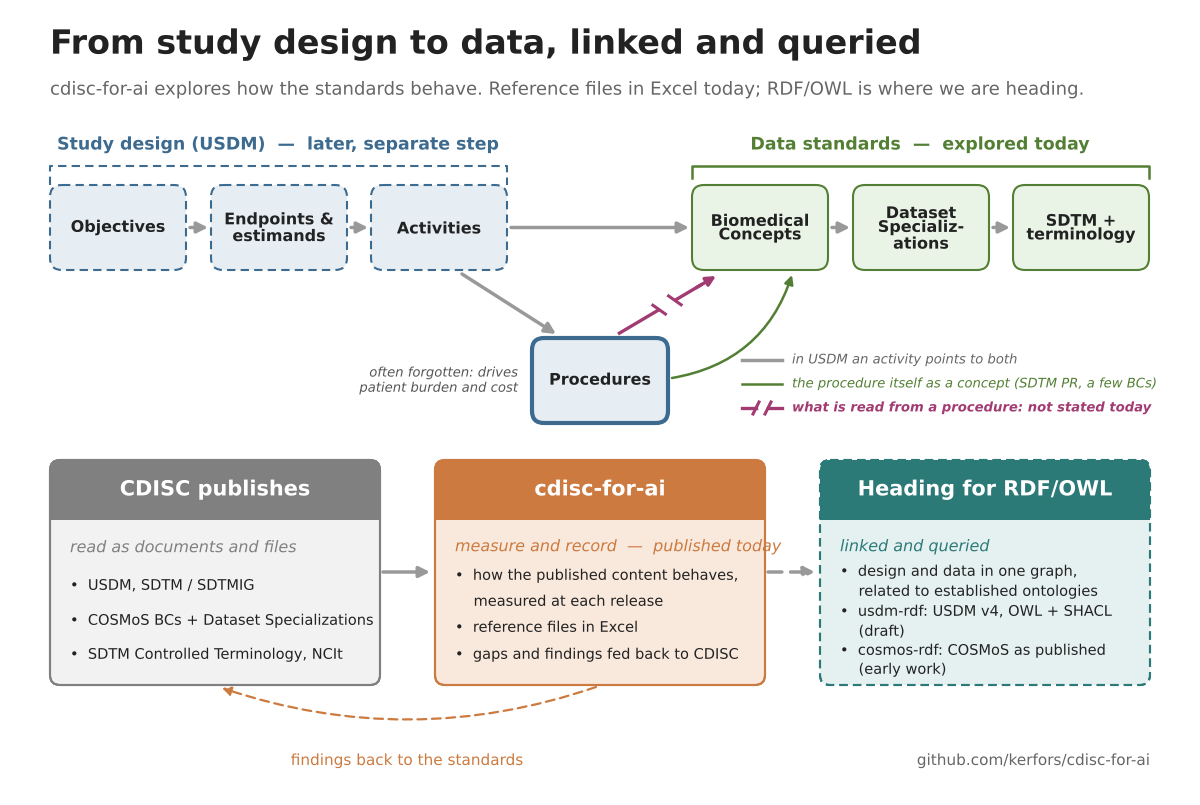
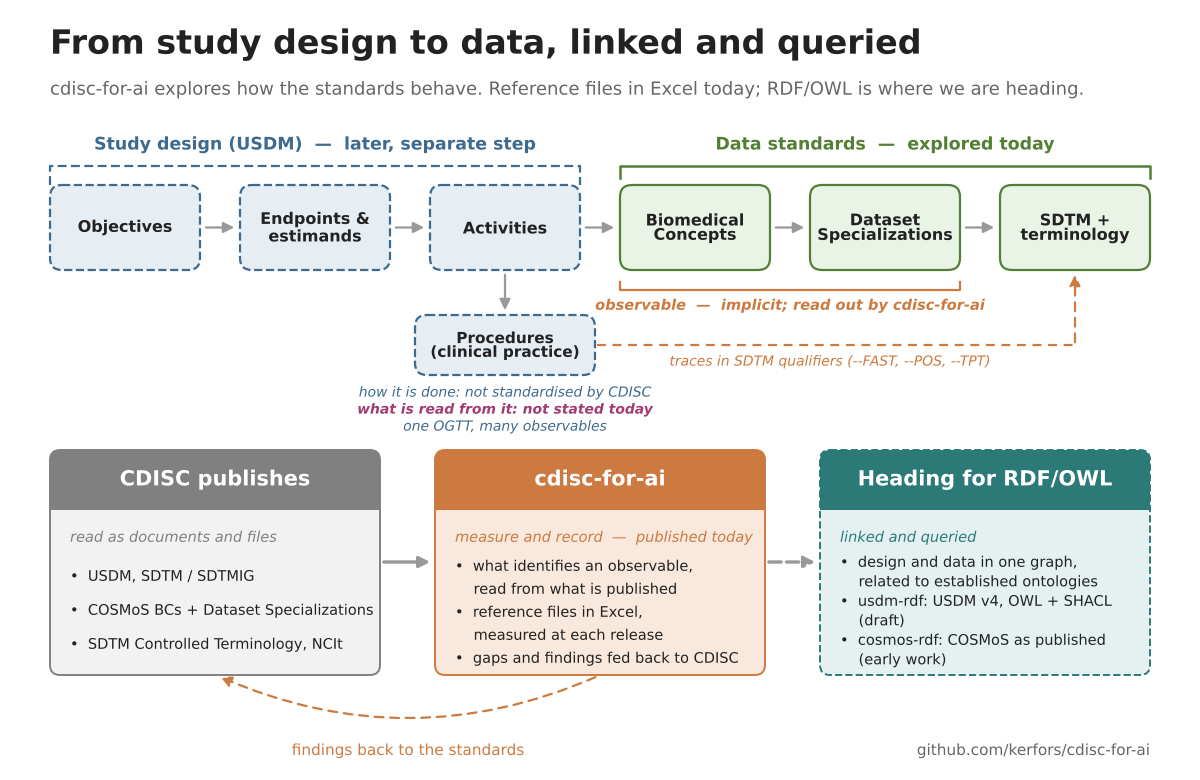
Design-to-data picture: observable named, procedures as a second axis, practice traces in SDTM qualifiers

diff --git a/docs/images/cdisc_for_ai_design_to_data.py b/docs/images/cdisc_for_ai_design_to_data.py
@@ -1,110 +1,136 @@
 # Draws docs/images/cdisc_for_ai_design_to_data.png (the picture on the Pages front page and in README.md).
-# Run: python3 cdisc_for_ai_design_to_data.py   (needs matplotlib and numpy)
+# Run: python3 cdisc_for_ai_design_to_data.py   (needs matplotlib)
 
+import os
 import matplotlib
 matplotlib.use("Agg")
 import matplotlib.pyplot as plt
-plt.rcParams["font.family"]="DejaVu Sans"
-from matplotlib.patches import FancyBboxPatch, FancyArrowPatch, Rectangle
+plt.rcParams["font.family"] = "DejaVu Sans"
+from matplotlib.patches import FancyBboxPatch, FancyArrowPatch
 
-W, H, S = 1200, 805, 115          # S = extra height added below the top row
-fig = plt.figure(figsize=(W/100, H/100), dpi=100)
-ax = fig.add_axes([0, 0, 1, 1]); ax.set_xlim(0, W); ax.set_ylim(H, 0); ax.axis("off")
+W, H = 1200, 780
+fig = plt.figure(figsize=(W / 100, H / 100), dpi=100)
+ax = fig.add_axes([0, 0, 1, 1])
+ax.set_xlim(0, W)
+ax.set_ylim(H, 0)
+ax.axis("off")
+fig.patch.set_facecolor("white")
 
-BLUE, BLUE_F = "#3d6a8f", "#e6edf3"
-ORANGE, ORANGE_F = "#cc7a3f", "#f9e8dc"
-GREEN, GREEN_F = "#527f33", "#eaf4e6"
-GREY, DARK = "#999999", "#222222"
+DARK = "#222222"
+GREY = "#666666"
+BLUE, BLUE_BG = "#3d6a8f", "#e6edf3"
+ORANGE, ORANGE_BG = "#cc7a3f", "#f9e8dc"
+GREEN, GREEN_BG = "#527f33", "#eaf4e6"
+TEAL, TEAL_BG = "#2b7a78", "#e4f1f0"
+LGREY, LGREY_BG = "#808080", "#f2f2f2"
+PLUM = "#a23b72"
+ARROW = "#999999"
 
-def box(x, y, w, h, fc, ec, lw=1.5, ls="-", r=12):
+
+def box(x, y, w, h, fc, ec, lw=1.6, ls="-", r=10):
     ax.add_patch(FancyBboxPatch((x, y), w, h, boxstyle=f"round,pad=0,rounding_size={r}",
                                 fc=fc, ec=ec, lw=lw, ls=ls))
-def arrow(p, q, color=GREY, lw=2.5, ls="-", rad=0.0, ms=16):
-    ax.add_patch(FancyArrowPatch(p, q, arrowstyle="-|>", mutation_scale=ms, color=color,
-                                 lw=lw, ls=ls, connectionstyle=f"arc3,rad={rad}",
-                                 shrinkA=0, shrinkB=0))
 
-ax.text(50, 45, "From study design to data, linked and queried", fontsize=24, fontweight="bold", color=DARK, va="center")
-ax.text(50, 90, "cdisc-for-ai explores how the standards behave. Reference files in Excel today; RDF/OWL is where we are heading.",
-        fontsize=13, color="#666666", va="center")
 
-# headings and brackets
-ax.text(278, 145, "Study design (USDM)  \u2014  later, separate step", fontsize=12.5, fontweight="bold", color=BLUE, ha="center", va="center")
-ax.plot([50, 50, 507, 507], [185, 166, 166, 185], color=BLUE, lw=1.5, ls=(0, (4, 2.5)))
-ax.text(920, 145, "Data standards  \u2014  explored today", fontsize=12.5, fontweight="bold", color=GREEN, ha="center", va="center")
-ax.plot([692, 692, 1149, 1149], [178, 166, 166, 178], color=GREEN, lw=1.8)
+def arrow(x1, y1, x2, y2, color=ARROW, ls="-", lw=2.2):
+    ax.add_patch(FancyArrowPatch((x1, y1), (x2, y2), arrowstyle="-|>", mutation_scale=16,
+                                 color=color, lw=lw, ls=ls))
 
-PLUM = "#a23b72"
-y0, bw, bh = 185, 136, 85
-row = [(50, "Objectives", 0), (211, "Endpoints &\nestimands", 0), (371, "Activities", 0),
-       (692, "Biomedical\nConcepts", 1), (853, "Dataset\nSpecializ-\nations", 1), (1013, "SDTM +\nterminology", 1)]
-for x, lab, g in row:
-    if g: box(x, y0, bw, bh, GREEN_F, GREEN)
-    else: box(x, y0, bw, bh, BLUE_F, BLUE, ls=(0, (4, 2.5)))
-    ax.text(x + bw/2, y0 + bh/2, lab, fontsize=11.5, fontweight="bold", color=DARK, ha="center", va="center", linespacing=0.95)
-ym = y0 + bh/2
-for x0, x1 in [(186, 211), (347, 371), (507, 692), (828, 853), (989, 1013)]:
-    arrow((x0 + 4, ym), (x1 - 3, ym))
 
-# third corner of the triangle: Procedures (a USDM class), below the gap
-px, py = 532, 338
-box(px, py, bw, bh, BLUE_F, BLUE, lw=3)
-ax.text(px + bw/2, py + bh/2, "Procedures", fontsize=11.5, fontweight="bold", color=DARK, ha="center", va="center")
-ax.text(px - 14, py + bh/2, "often forgotten: drives\npatient burden and cost", fontsize=9.5, fontstyle="italic",
-        color="#555555", ha="right", va="center", linespacing=1.15)
-yb = y0 + bh
-arrow((462, yb + 4), (556, py - 4))                                          # Activities -> Procedures (USDM)
-arrow((px + bw + 4, py + 40), (792, yb + 5), color=GREEN, lw=1.8, rad=0.3, ms=13)   # the procedure itself as a concept
-import numpy as np
-P0, P2 = np.array([618.0, py - 4]), np.array([716.0, yb + 6])                 # read from: not stated
-d = (P2 - P0)/np.linalg.norm(P2 - P0); n = np.array([-d[1], d[0]]); L = np.linalg.norm(P2 - P0)
-for t0, t1 in [(0, 0.42), (0.58, 0.86)]:
-    q0, q1 = P0 + d*L*t0, P0 + d*L*t1; ax.plot([q0[0], q1[0]], [q0[1], q1[1]], color=PLUM, lw=2.4, solid_capstyle="butt")
-for t in (0.42, 0.58):
-    p = P0 + d*L*t; v = 7*(n + 0.45*d); ax.plot([p[0]-v[0], p[0]+v[0]], [p[1]-v[1], p[1]+v[1]], color=PLUM, lw=2.2)
-arrow(tuple(P0 + d*L*0.8), tuple(P2), color=PLUM, lw=2.4, ms=14)
+# Title and subtitle
+ax.text(50, 45, "From study design to data, linked and queried", fontsize=24, weight="bold",
+        color=DARK, va="center")
+ax.text(50, 90, "cdisc-for-ai explores how the standards behave. Reference files in Excel today; "
+        "RDF/OWL is where we are heading.", fontsize=13, color=GREY, va="center")
 
-# legend for the three kinds of link
-lx, ly = 742, py + 22
-ax.plot([lx, lx + 40], [ly, ly], color=GREY, lw=2.5)
-ax.text(lx + 50, ly, "in USDM an activity points to both", fontsize=9.5, fontstyle="italic", color="#666666", va="center")
-ax.plot([lx, lx + 40], [ly + 24, ly + 24], color=GREEN, lw=1.8)
-ax.text(lx + 50, ly + 24, "the procedure itself as a concept (SDTM PR, a few BCs)", fontsize=9.5, fontstyle="italic", color=GREEN, va="center")
-ax.plot([lx, lx + 14], [ly + 48, ly + 48], color=PLUM, lw=2.4); ax.plot([lx + 26, lx + 40], [ly + 48, ly + 48], color=PLUM, lw=2.4)
-for xx in (lx + 14, lx + 26): ax.plot([xx - 3, xx + 3], [ly + 54, ly + 42], color=PLUM, lw=2.2)
-ax.text(lx + 50, ly + 48, "what is read from a procedure: not stated today", fontsize=9.5, fontweight="bold",
-        fontstyle="italic", color=PLUM, va="center")
+# Top row
+ax.text(315, 145, "Study design (USDM)  —  later, separate step", fontsize=12.5, weight="bold",
+        color=BLUE, ha="center", va="center")
+ax.plot([50, 50, 580, 580], [185, 166, 166, 185], color=BLUE, lw=1.6, ls=(0, (4, 2)))
+ax.text(885, 145, "Data standards  —  explored today", fontsize=12.5, weight="bold",
+        color=GREEN, ha="center", va="center")
+ax.plot([620, 620, 1150, 1150], [178, 166, 166, 178], color=GREEN, lw=1.8)
 
-# lower panels (shifted down by S)
-def panel(x, title, head, body_fc, ec, ls="-"):
-    y = 345 + S
-    box(x, y, 330, 225, body_fc, ec, ls=ls, r=10)
-    ax.add_patch(FancyBboxPatch((x, y), 330, 60, boxstyle="round,pad=0,rounding_size=10", fc=head, ec=head, lw=0))
-    ax.add_patch(Rectangle((x, y + 30), 330, 30, fc=head, ec=head, lw=0))
-    box(x, y, 330, 225, "none", ec, ls=ls, r=10)
-    ax.text(x + 165, y + 30, title, fontsize=15, fontweight="bold", color="white", ha="center", va="center")
-panel(50, "CDISC publishes", "#808080", "#f2f2f2", "#808080")
-panel(435, "cdisc-for-ai", ORANGE, ORANGE_F, ORANGE)
-TEAL, TEAL_F = "#2b7a78", "#e4f1f0"
-panel(820, "Heading for RDF/OWL", TEAL, TEAL_F, TEAL, ls=(0, (4, 2.5)))
+steps = [
+    ("Objectives", BLUE_BG, BLUE, "--", 1.6),
+    ("Endpoints &\nestimands", BLUE_BG, BLUE, "--", 1.6),
+    ("Activities", BLUE_BG, BLUE, "--", 1.6),
+    ("Biomedical\nConcepts", GREEN_BG, GREEN, "-", 1.6),
+    ("Dataset\nSpecializations", GREEN_BG, GREEN, "-", 1.6),
+    ("SDTM +\nterminology", GREEN_BG, GREEN, "-", 1.6),
+]
+x0, bw, gap, by, bh = 50, 150, 40, 185, 85
+for i, (label, fc, ec, ls, lw) in enumerate(steps):
+    x = x0 + i * (bw + gap)
+    box(x, by, bw, bh, fc, ec, lw=lw, ls=ls, r=12)
+    ax.text(x + bw / 2, by + bh / 2, label, fontsize=11.5, weight="bold", color=DARK,
+            ha="center", va="center", linespacing=1.0)
+    if i < len(steps) - 1:
+        arrow(x + bw + 3, by + bh / 2, x + bw + gap - 3, by + bh / 2, lw=1.6)
 
-def lines(x, y, head, hc, items, dy):
-    ax.text(x, y + S, head, fontsize=11.5, fontstyle="italic", color=hc, va="center")
-    for k, t in enumerate(items):
-        ax.text(x, y + S + dy[k], t, fontsize=10.5, color=DARK, va="center")
-lines(70, 433, "read as documents and files", "#808080",
-      ["•  USDM, SDTM / SDTMIG", "•  COSMoS BCs + Dataset Specializations", "•  SDTM Controlled Terminology, NCIt"], [38, 73, 107])
-lines(455, 432, "measure and record  —  published today", ORANGE,
-      ["•  how the published content behaves,", "    measured at each release", "•  reference files in Excel", "•  gaps and findings fed back to CDISC"], [29, 55, 81, 108])
-lines(840, 432, "linked and queried", TEAL,
-      ["•  design and data in one graph,", "    related to established ontologies", "•  usdm-rdf: USDM v4, OWL + SHACL", "    (draft)",
-       "•  cosmos-rdf: COSMoS as published", "    (early work)"], [25, 45, 65, 85, 104, 123])
+# Observable: implicit in BC + DSS, read out by cdisc-for-ai
+ax.plot([620, 620, 960, 960], [282, 290, 290, 282], color=ORANGE, lw=1.6)
+ax.text(790, 306, "observable  —  implicit; read out by cdisc-for-ai", fontsize=10.5,
+        weight="bold", style="italic", color=ORANGE, ha="center", va="center")
 
-arrow((383, 457 + S), (430, 457 + S))
-arrow((768, 457 + S), (815, 457 + S), ls=(0, (4, 2.5)))
-arrow((596, 572 + S), (222, 573 + S), color=ORANGE, lw=1.6, ls=(0, (4, 2.5)), rad=-0.17, ms=13)
-ax.text(407, 646 + S, "findings back to the standards", fontsize=11, color=ORANGE, ha="center", va="center")
-ax.text(1150, 646 + S, "github.com/kerfors/cdisc-for-ai", fontsize=11, color="#666666", ha="right", va="center")
+# Procedures: a second axis, not a step in the chain (USDM: an activity points to both)
+box(415, 315, 180, 60, BLUE_BG, BLUE, lw=1.6, ls="--", r=12)
+ax.text(505, 345, "Procedures\n(clinical practice)", fontsize=11, weight="bold", color=DARK,
+        ha="center", va="center", linespacing=1.0)
+arrow(505, 272, 505, 313, lw=1.6)
+ax.text(505, 393, "how it is done: not standardised by CDISC", fontsize=10, style="italic",
+        color=BLUE, ha="center", va="center")
+ax.text(505, 410, "what is read from it: not stated today", fontsize=10, weight="bold",
+        style="italic", color=PLUM, ha="center", va="center")
+ax.text(505, 427, "one OGTT, many observables", fontsize=10, style="italic", color=BLUE,
+        ha="center", va="center")
+ax.plot([597, 1075], [345, 345], color=ORANGE, lw=1.6, ls=(0, (4, 3)))
+arrow(1075, 345, 1075, 272, color=ORANGE, ls=(0, (4, 3)), lw=1.6)
+ax.text(830, 362, "traces in SDTM qualifiers (--FAST, --POS, --TPT)", fontsize=10,
+        style="italic", color=ORANGE, ha="center", va="center")
 
-import os
-fig.savefig(os.path.join(os.path.dirname(os.path.abspath(__file__)), "cdisc_for_ai_design_to_data.png"), dpi=100, facecolor="white")
+# Bottom row: three panels
+py, ph, pw, hh = 450, 225, 330, 60
+
+
+def panel(x, title, hdr, bg, ec, sub, subcol, bullets, ls="-", step=34, first=577, fs=10.5):
+    box(x, py, pw, ph, bg, ec, lw=1.4, ls=ls, r=10)
+    ax.add_patch(FancyBboxPatch((x, py), pw, hh, boxstyle="round,pad=0,rounding_size=10",
+                                fc=hdr, ec=hdr, lw=0))
+    ax.add_patch(plt.Rectangle((x, py + hh - 12), pw, 12, fc=hdr, ec=hdr, lw=0))
+    ax.text(x + pw / 2, py + hh / 2, title, fontsize=15, weight="bold", color="white",
+            ha="center", va="center")
+    ax.text(x + 20, py + 88, sub, fontsize=10.5, style="italic", color=subcol, va="center")
+    for j, b in enumerate(bullets):
+        if b.startswith("~"):
+            ax.text(x + 20, first + j * step, "    " + b[1:], fontsize=fs, color=DARK, va="center")
+        else:
+            ax.text(x + 20, first + j * step, "•  " + b, fontsize=fs, color=DARK, va="center")
+
+
+panel(50, "CDISC publishes", LGREY, LGREY_BG, LGREY, "read as documents and files", LGREY,
+      ["USDM, SDTM / SDTMIG", "COSMoS BCs + Dataset Specializations",
+       "SDTM Controlled Terminology, NCIt"])
+panel(435, "cdisc-for-ai", ORANGE, ORANGE_BG, ORANGE, "measure and record  —  published today", ORANGE,
+      ["what identifies an observable,", "~read from what is published",
+       "reference files in Excel,", "~measured at each release",
+       "gaps and findings fed back to CDISC"], step=23, first=567)
+panel(820, "Heading for RDF/OWL", TEAL, TEAL_BG, TEAL, "linked and queried", TEAL,
+      ["design and data in one graph,", "~related to established ontologies",
+       "usdm-rdf: USDM v4, OWL + SHACL", "~(draft)",
+       "cosmos-rdf: COSMoS as published", "~(early work)"], ls="--", step=19.5, first=563)
+
+arrow(381, 562, 433, 562, lw=2.4)
+arrow(766, 562, 818, 562, ls="--", lw=2.4)
+
+# Feedback loop
+ax.add_patch(FancyArrowPatch((598, 676), (218, 676), connectionstyle="arc3,rad=-0.22",
+                             arrowstyle="-|>", mutation_scale=16, color=ORANGE, lw=1.6,
+                             ls=(0, (4, 3))))
+ax.text(408, 751, "findings back to the standards", fontsize=11, color=ORANGE, ha="center",
+        va="center")
+ax.text(1150, 751, "github.com/kerfors/cdisc-for-ai", fontsize=11, color=GREY, ha="right",
+        va="center")
+
+fig.savefig(os.path.join(os.path.dirname(os.path.abspath(__file__)), "cdisc_for_ai_design_to_data.png"),
+            dpi=100, facecolor="white")
